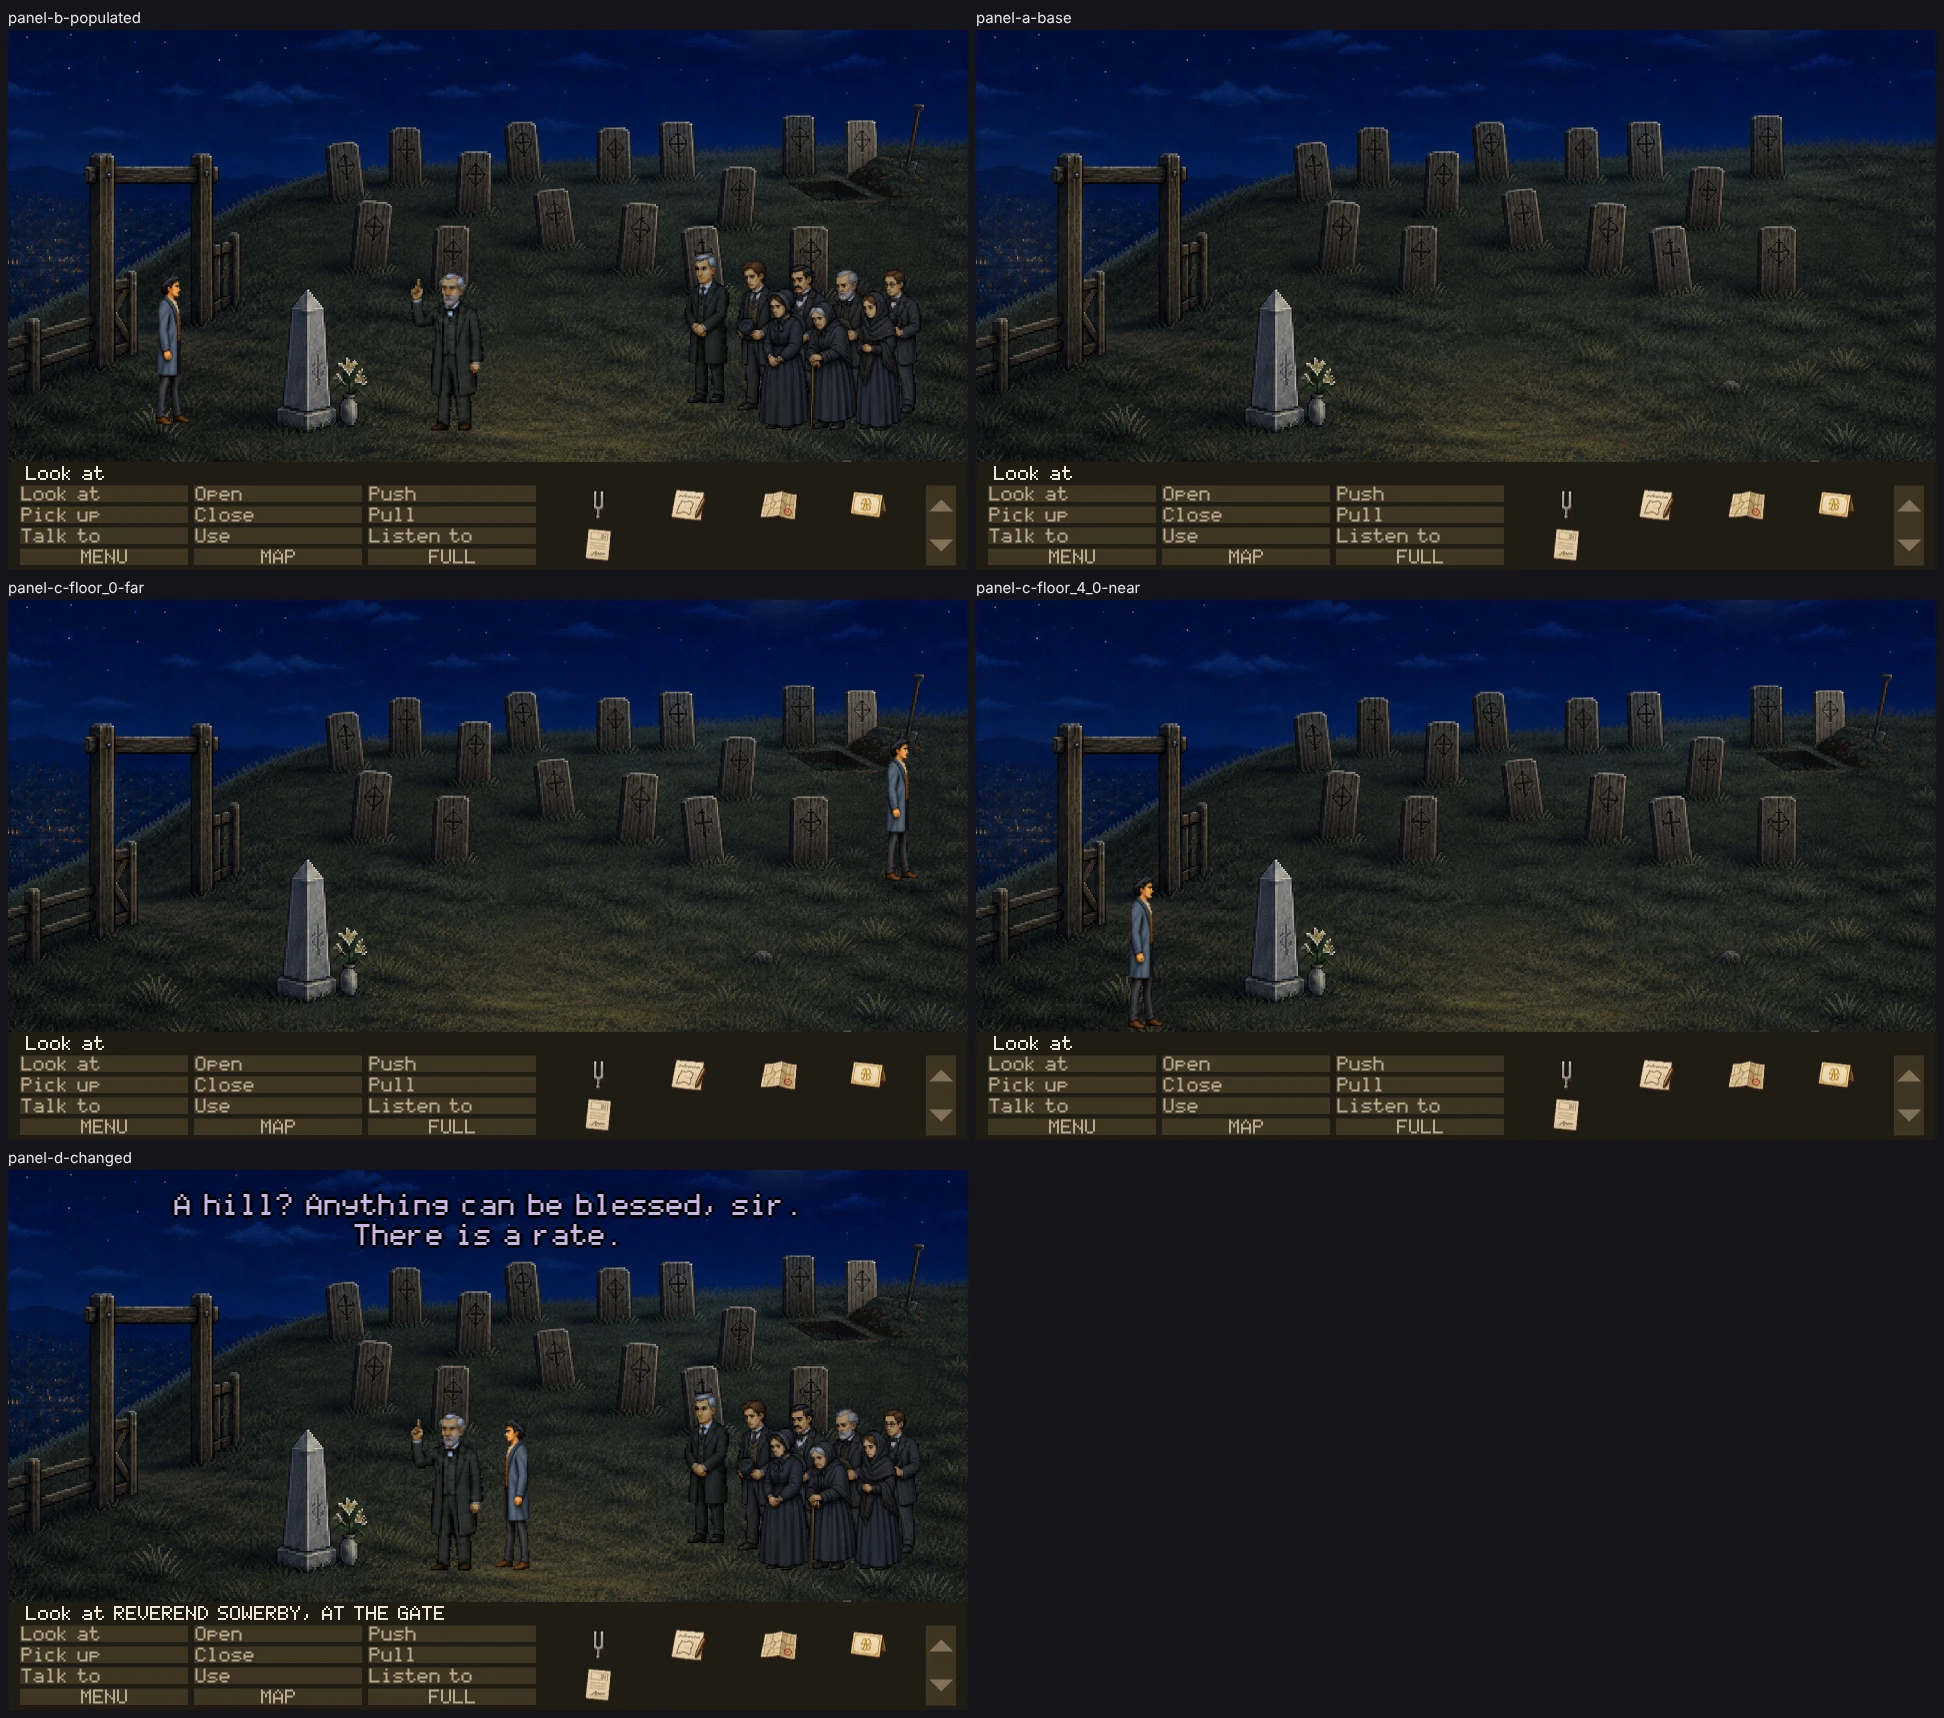
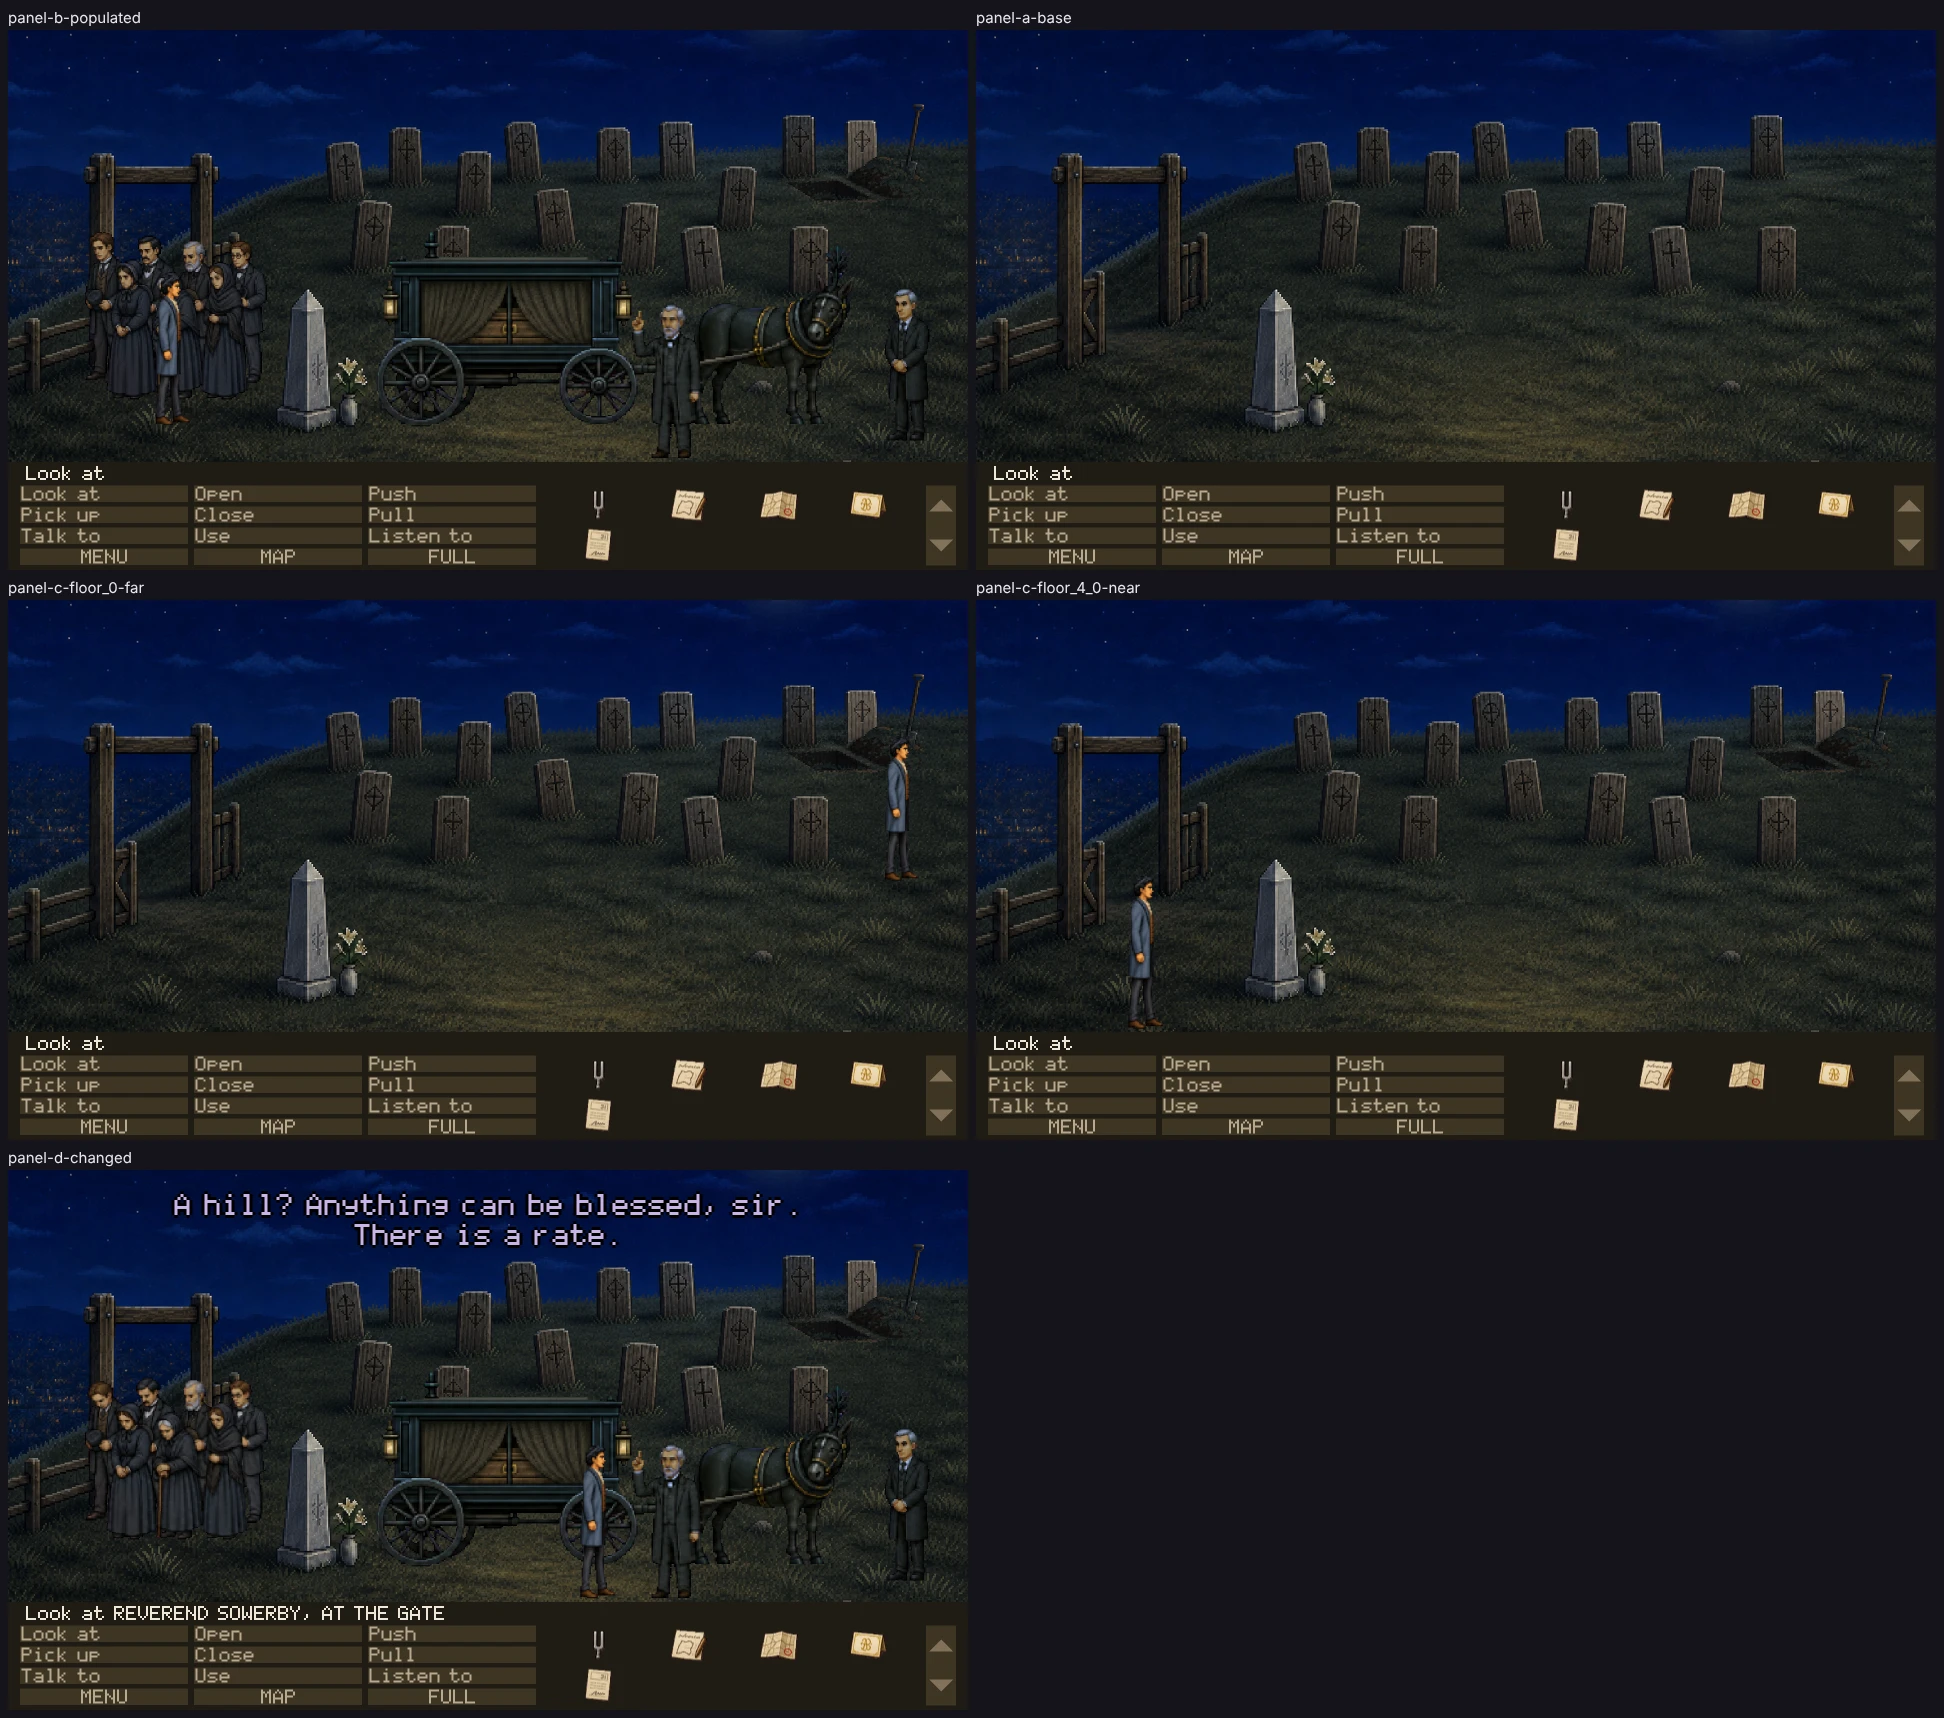
Errata 233: Room 14's stalled proof, with the hitch at the gate
Lesson: none -- a proof render of the wired art.

Claude-Session: https://claude.ai/code/session_01FXbCus2Hm36NL2YuHFGB8T

diff --git a/renders/proofs/boot-hill-stalled/index.html b/renders/proofs/boot-hill-stalled/index.html
@@ -17,7 +17,7 @@
 </style>
 <h1>boot_hill — four-panel live-runtime proof</h1>
 <p class="lede">Every frame below is the full play area as the renderer drew it, in the running
-game, at <code>79518707</code> on <code>scene-a-build</code>.
+game, at <code>0dafc785</code> on <code>scene-a-build</code>.
 No crop, isolated sprite or source image appears here: those are for diagnosing what a full
 frame has already shown.</p>
 <p class="lede"><b>These panels establish technical admissibility only.</b> Nothing here says the
@@ -61,7 +61,7 @@ art is good, in style, funny or approved. Only Tyler sets <code>visual_accepted<
       <span>room boot_hill &middot; camera 0 &middot;
         flags T_OPENING_SAID T_COACH_DEPARTED T_UNDERTAKER_NAMED T_HOB_CROSSING T_THAD_LEAVING T_HOB_SPOKEN T_HOB_GONE T_PIKE_DEAD T_OPENING_DONE T_SEEN_MAIN_STREET T_SWINDLED T_CASE_DOWN T_CASE_TAKEN T_BORDERS_MOTT T_ASSAY_QUEUE T_SURVEY_NEEDED T_DEED_LODGED T_SURVEY_LODGED T_NINETY_DAYS T_NEED_TO_DIE T_EXECUTOR_RULE T_EXECUTOR_NAMED T_PROCESSION_STALLED T_HILL_PRAYER T_DECEASED T_OBITUARY T_COFFIN_SIZED T_SOWERBY_PRICE T_FUNERAL_BOOKED T_CUTAWAY_CLARION T_CUTAWAY_FANSHAWE &middot;
         inventory tuning_fork deed company_map invitation executor_form</span>
-      <span>thad @1010,800 301px sprite</span>
+      <span>thad @1180,856 305px sprite</span>
     </figcaption>
   </figure>
   <figure>
